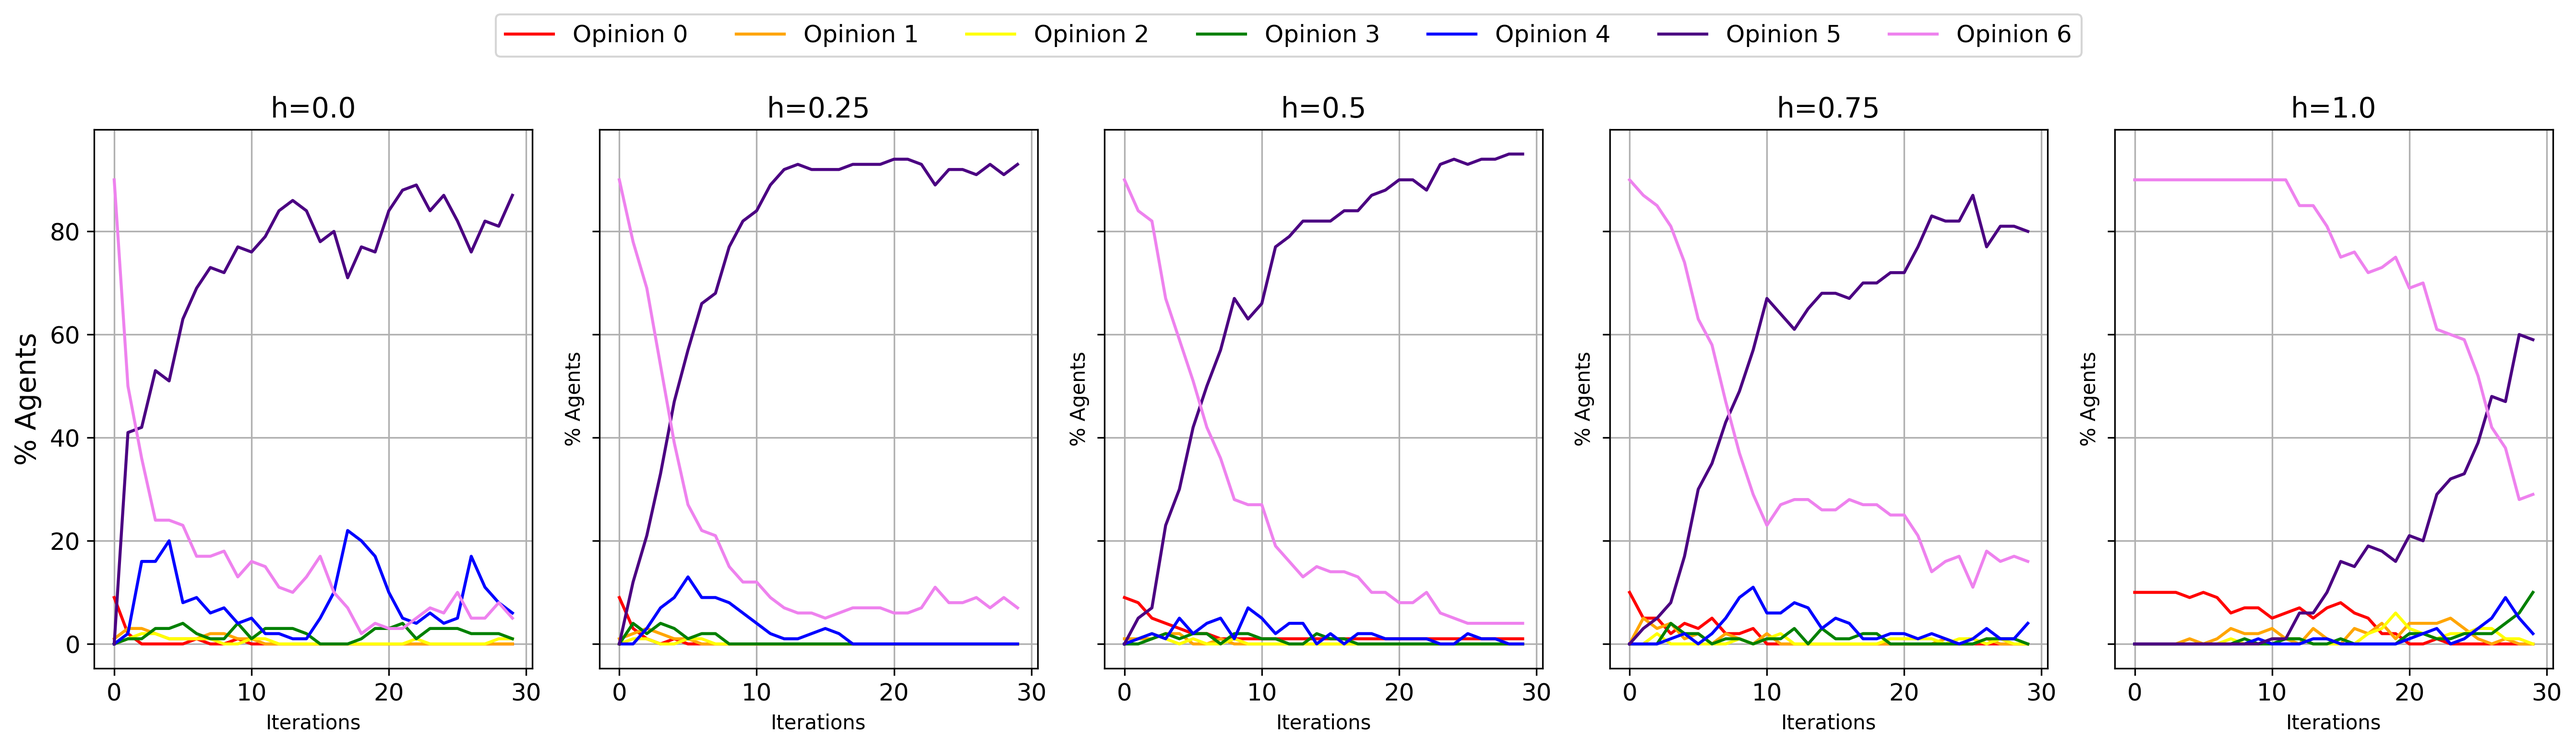
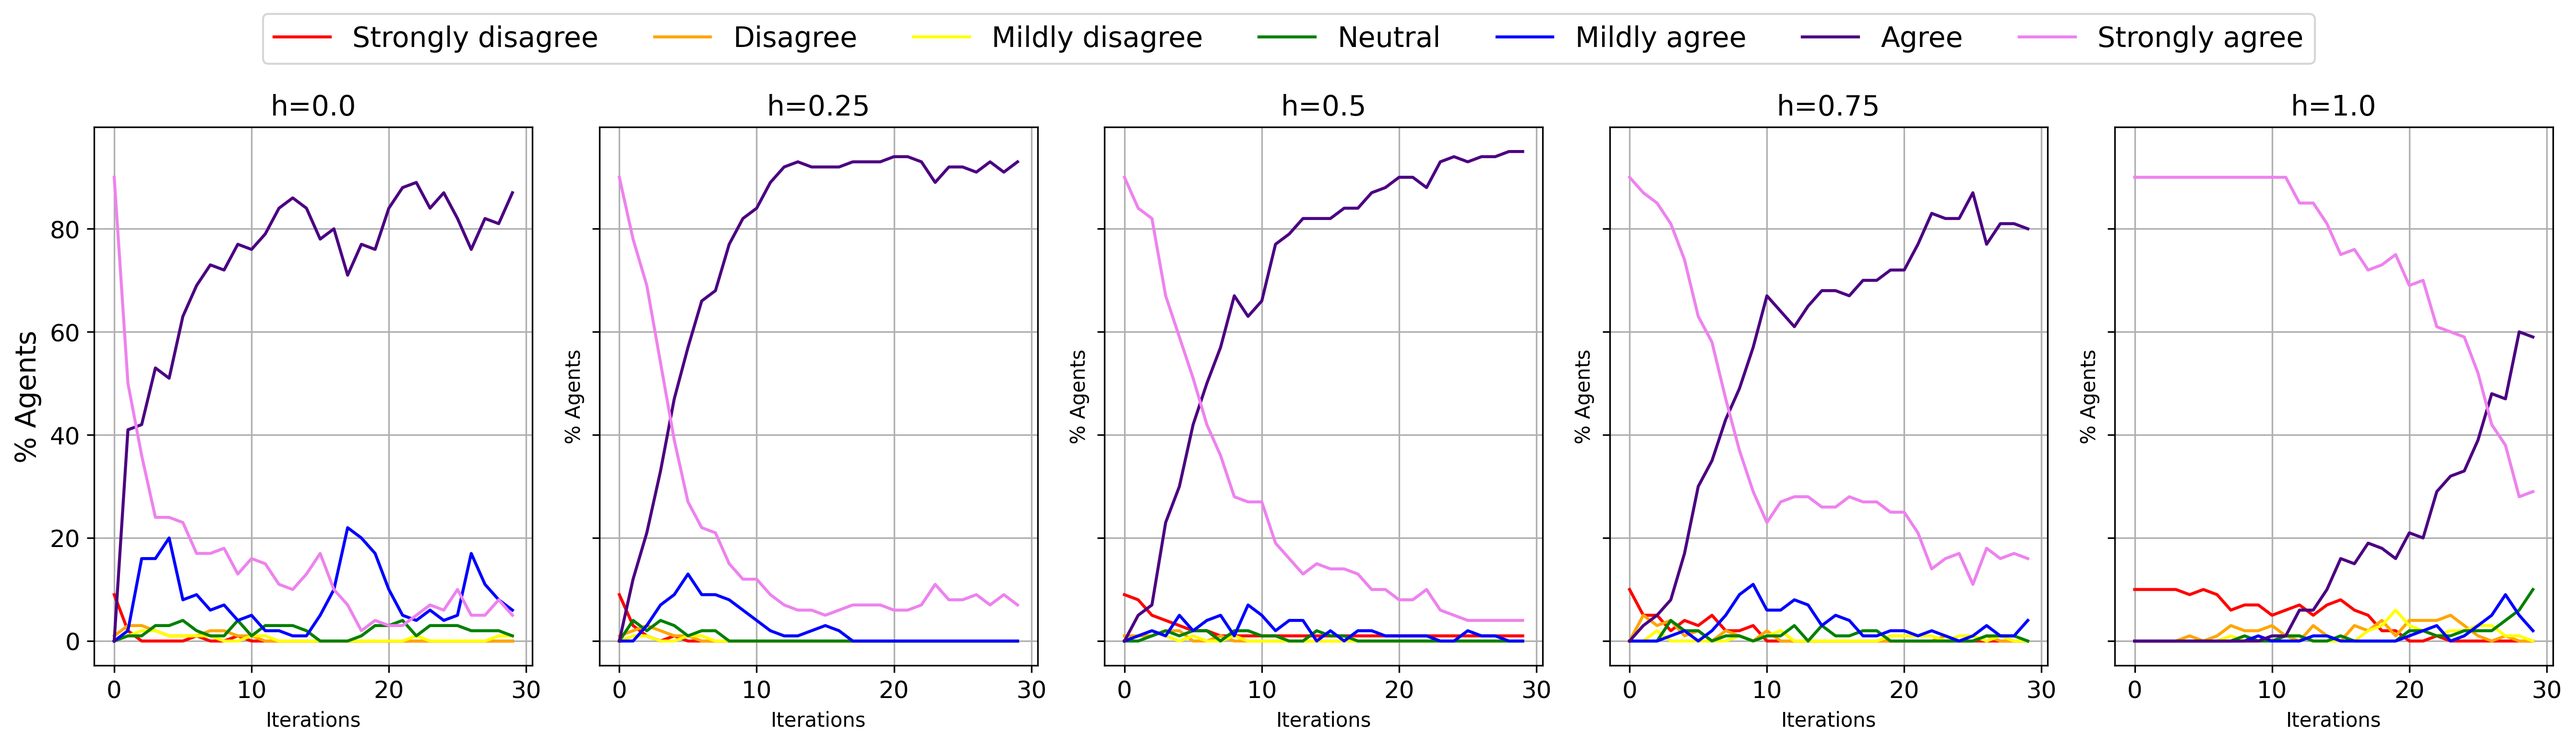
removed legends inside plots

diff --git a/llm_network/viz/opinion_trends.py b/llm_network/viz/opinion_trends.py
@@ -24,9 +24,7 @@ class OpinionTrends(object):
         statuses = {}
         
         try:
-            with open(filename) as file:
-                print(f"Reading file: {filename}")  # Debug print
-                
+            with open(filename) as file:                
                 for id_row, l in enumerate(file):
                     try:
                         l = json.loads(l)
@@ -68,8 +66,8 @@ class OpinionTrends(object):
             ax = plt.gca()
             
         colors = ['red', 'orange', 'yellow', 'green', 'blue', 'indigo', 'violet']
-        labels = ['Opinion 0', 'Opinion 1', 'Opinion 2', 'Opinion 3', 
-                 'Opinion 4', 'Opinion 5', 'Opinion 6']
+        labels = ['Strongly disagree', 'Disagree', 'Mildly disagree', 'Neutral', 
+                  'Mildly agree', 'Agree', 'Strongly agree']
         
         if limit:
             x = self.x[:limit]

diff --git a/llm_network/viz/opinion_area.py b/llm_network/viz/opinion_area.py
@@ -56,7 +56,7 @@ class OpinionArea(object):
         for k, v in self.data.items():
             self.data[k] = [x / len(l["status"]) for x in self.data[k]]
 
-    def plot(self, filename=None, limit=None, legend=True, ax=None):
+    def plot(self, filename=None, limit=None, legend=False, ax=None):
         """
         Generates the plot
 

diff --git a/viz_prova.py b/viz_prova.py
@@ -6,7 +6,7 @@ from llm_network.viz.area_chart import StackedAreaChart
 
 
 # Create output directory
-os.makedirs("trends/area_chart", exist_ok=True)
+os.makedirs("trends/stacked", exist_ok=True)
 
 h_values = ['0.0', '0.25', '0.5', '0.75', '1.0']
 min_values = ['0.1', '0.3', '0.5']

diff --git a/llm_network/viz/area_chart.py b/llm_network/viz/area_chart.py
@@ -105,7 +105,7 @@ class StackedAreaChart:
         ax.set_ylim(0, 1)  # Exact bounds, no padding
         
         ax.set_ylabel("")
-        ax.legend(loc='upper left')
+        ax.legend([])
         
         # Remove ALL margins and padding
         ax.margins(0)
